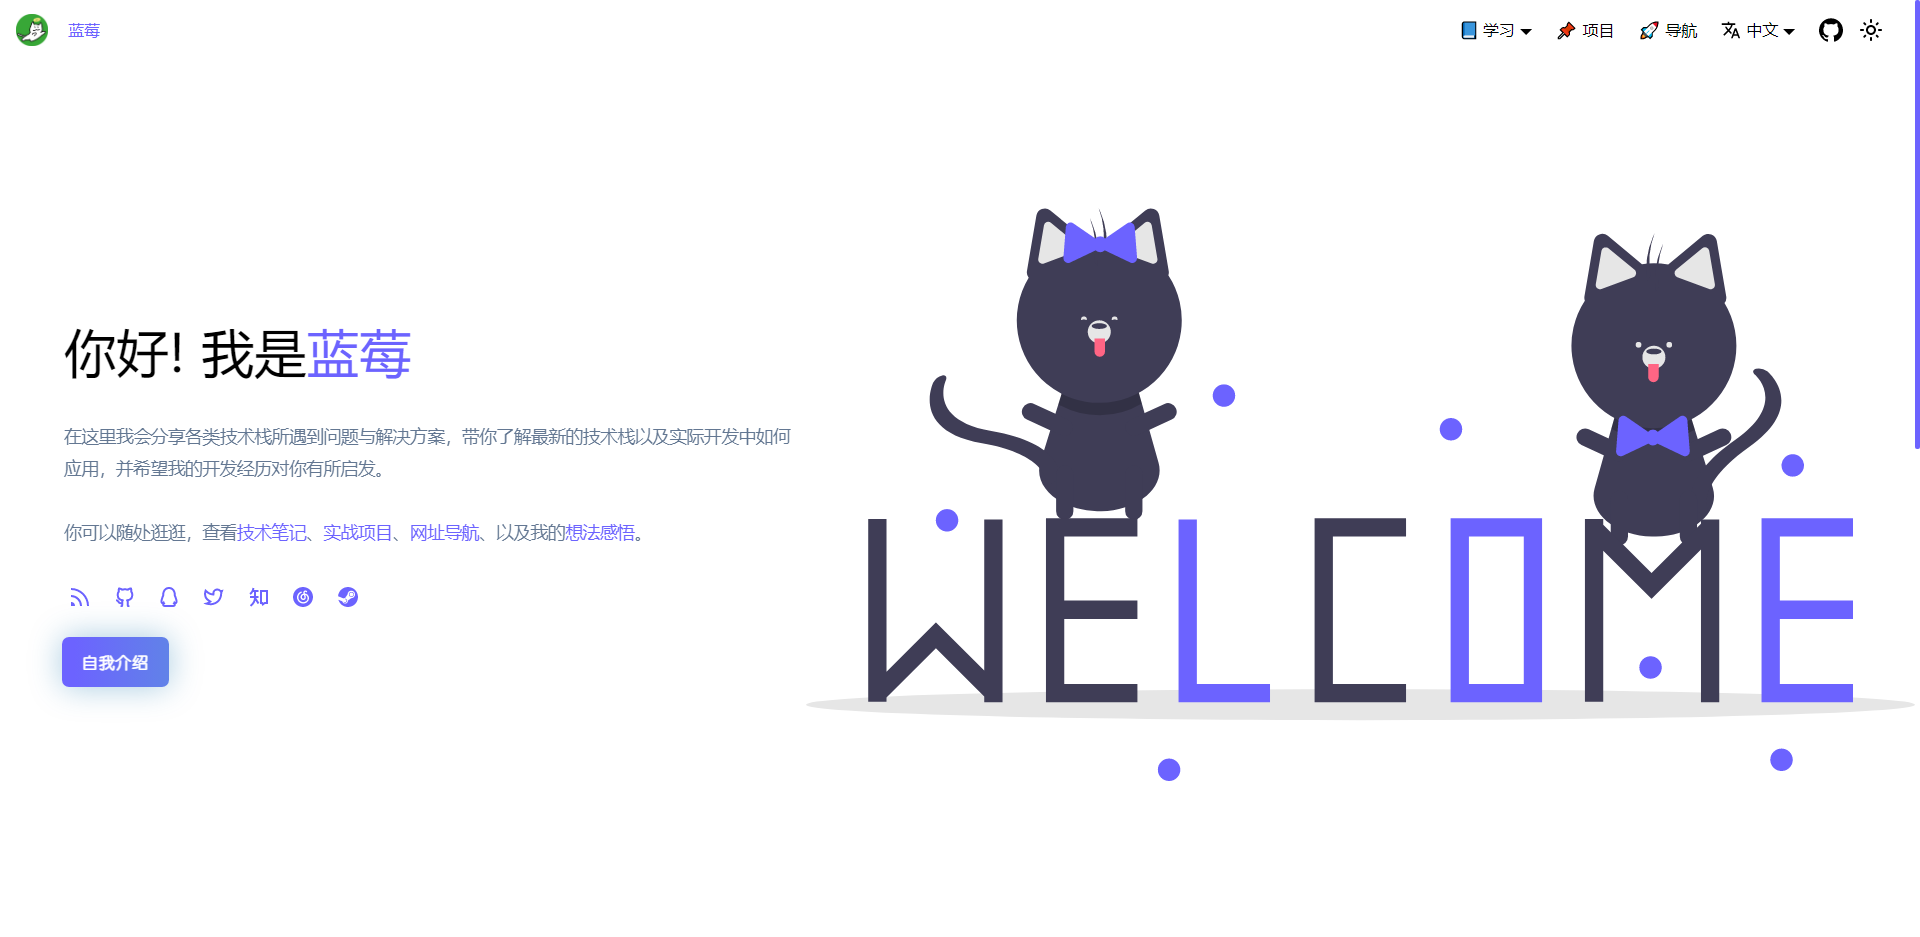
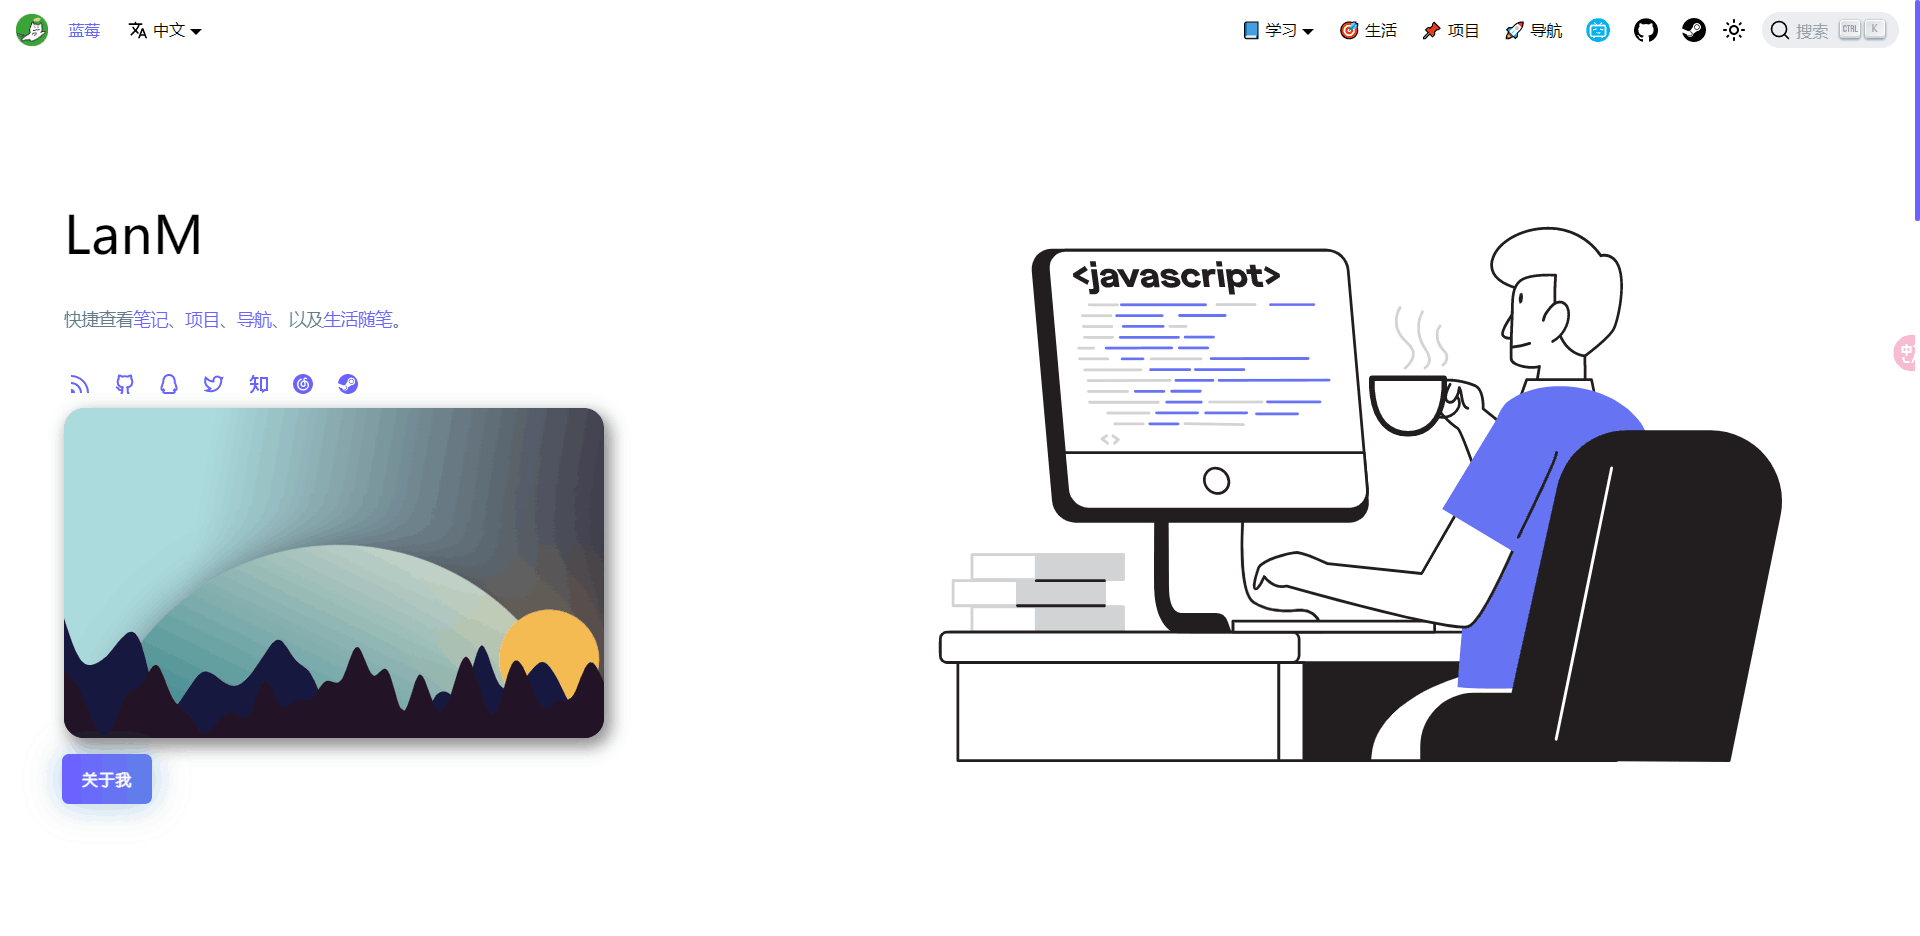
add project

diff --git a/data/project.ts b/data/project.ts
@@ -5,7 +5,25 @@ export const projects: Project[] = [
     preview: "/img/project/blog.png",
     website: "https://lanm.love",
     source: "https://github.com/BlueLanM/my-website",
-    tags: ["opensource", "design", "favorite"],
+    tags: ["opensource", "design", "favorite", "personal"],
+    type: "web",
+  },
+  {
+    title: "蓝莓的组件库",
+    description: "基于storyBook开发的个人组件库",
+    preview: "/img/project/component.png",
+    website: "https://component.lanm.love/",
+    source: "https://github.com/BlueLanM/lanm-component",
+    tags: ["opensource", "design", "favorite", "personal"],
+    type: "web",
+  },
+  {
+    title: "蓝莓的CSS玩具库",
+    description: "个人CSS收集库,基于Vite",
+    preview: "/img/project/toy.png",
+    website: "https://tools.lanm.love",
+    source: "https://github.com/BlueLanM/lanm-toy-library",
+    tags: ["opensource", "design", "favorite", "personal"],
     type: "web",
   },
   {
@@ -14,7 +32,7 @@ export const projects: Project[] = [
     preview: "/img/project/nodejs.png",
     website: "https://github.com/BlueLanM/NodeJs",
     source: "https://github.com/BlueLanM/NodeJs",
-    tags: ["opensource", "design", "personal", "favorite"],
+    tags: ["opensource", "design", "personal"],
     type: "other",
   },
   {
@@ -22,7 +40,15 @@ export const projects: Project[] = [
     description: "实现对数据里的模型管理",
     preview: "/img/project/dataModal.png",
     website: "",
-    tags: ["personal", "favorite"],
+    tags: ["design", "large"],
+    type: "personal",
+  },
+  {
+    title: "数据填报前台",
+    description: "前台页面展示",
+    preview: "/img/project/home.png",
+    website: "",
+    tags: ["design", "large"],
     type: "personal",
   },
 ];
@@ -47,7 +73,7 @@ export type Project = {
   title: string;
   description: string;
   preview?: any;
-  website: string;
+  website?: string;
   source?: string | null;
   tags: TagType[];
   type: ProjectType;

diff --git a/src/components/Hero/index.tsx b/src/components/Hero/index.tsx
@@ -71,7 +71,7 @@ function Hero() {
           <SocialLinks style={trails[2]} />
 
           <animated.div style={trails[3]} className={styles.animated}>
-            <DayAndNight />
+            {/* <DayAndNight /> */}
             <a className={styles.intro} href={"./about"}>
               <Translate id="hompage.hero.introduce">关于我</Translate>
             </a>
